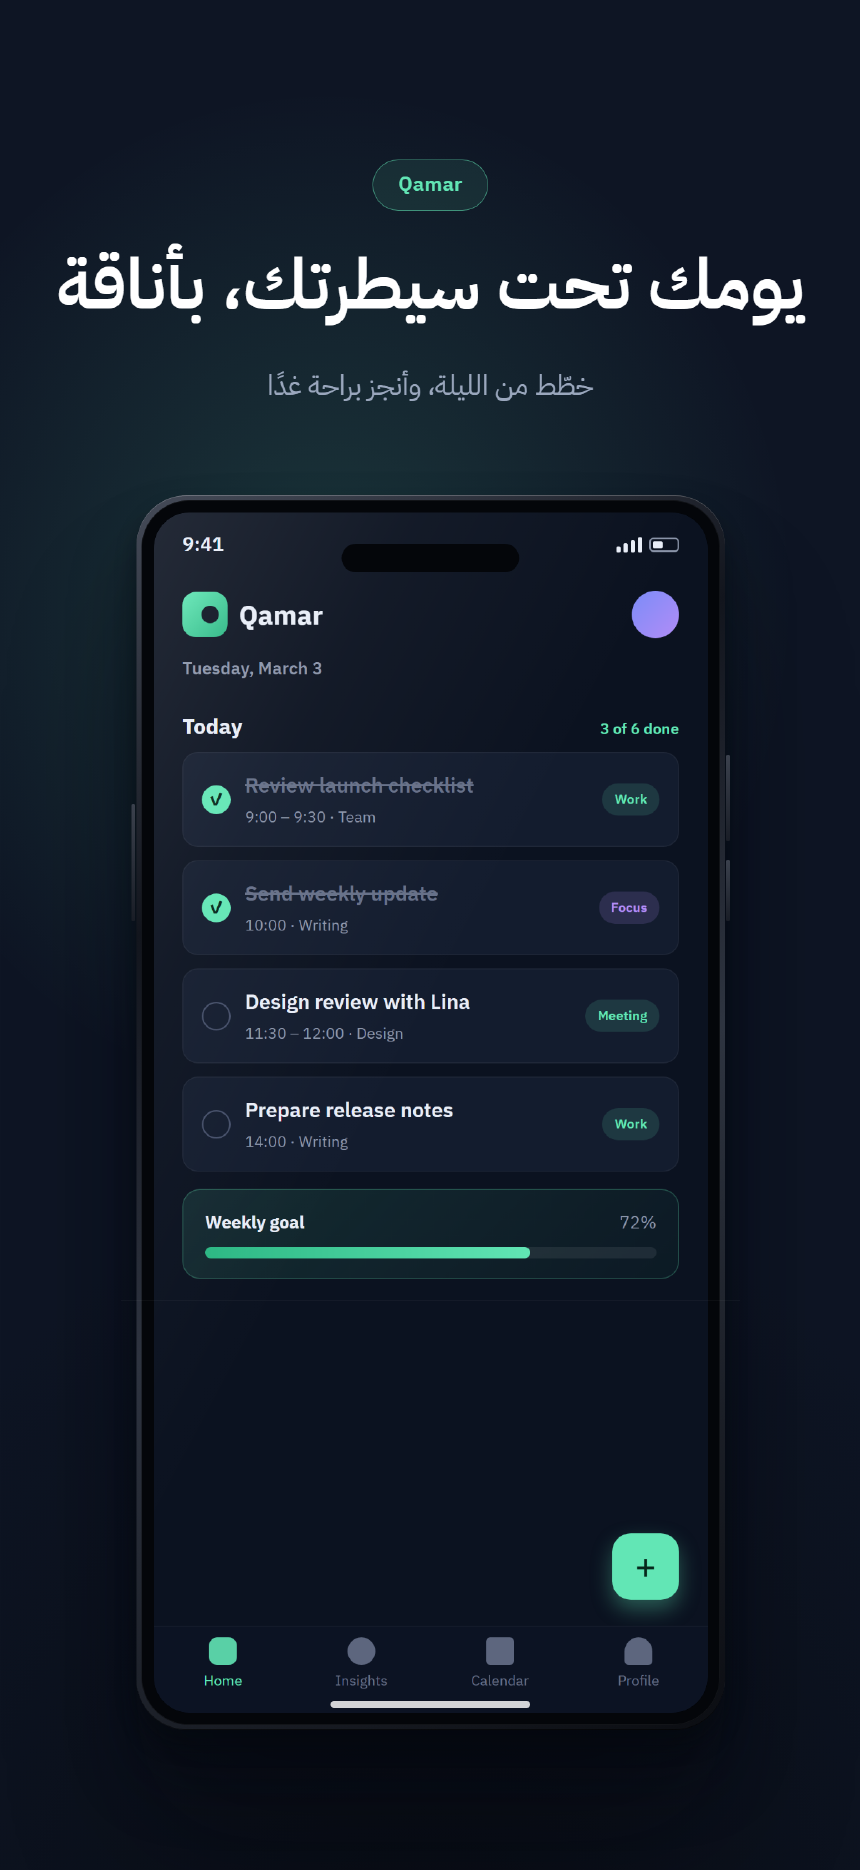
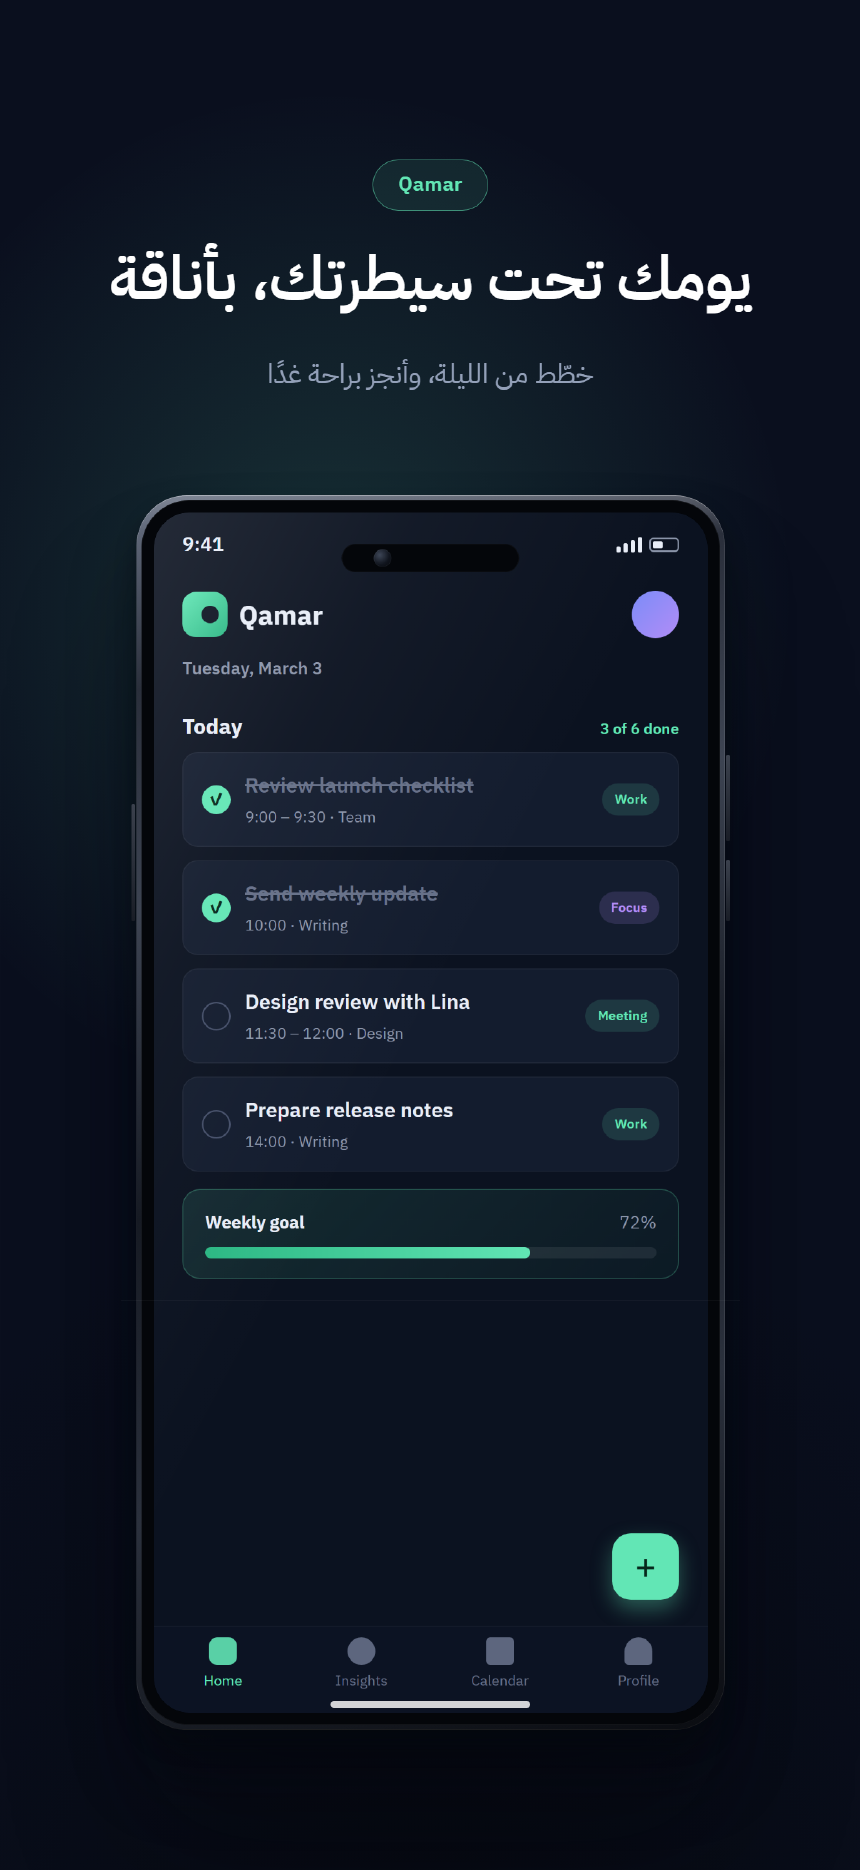
Fix cinematic variant B: headline was sitting on top of the app UI
Root cause: the doubled-px CSS fix resurrected a bottom-anchored
.cib-head declaration that had been dead since the layout was written —
so the Arabic headline dove to the bottom of ar/04-focus.png and sat
directly over the app's timer UI, with only a scrim darkening the app
beneath it. The 'non-intersecting zones' review had passed against the
accidental top placement the broken CSS produced.

Variant B is now genuinely zone-separated: headline owns the top band
(top 0.075h, side insets), the device starts below it (top 0.34h, bottom
bleed), the scrim over the app is GONE (a scrim is not a fix for text on
app UI). Both cinematic portrait variants get the library-wide
content-aware budgets (Arabic optical scale + deeper line budgets, long
copy one step down) — the starter's own copy now fits both variants.

Verified: pixel audit of the regenerated ar/04-focus.png — headline fully
in the top band, zero marketing text over app UI, shaping natural, PASS.
Flagship listing regenerated (10 frames) and downscaled to display size.
Suite: 13 files, 198 tests passed; visual baselines refreshed.

diff --git a/src/templates/cinematic.ts b/src/templates/cinematic.ts
@@ -146,14 +146,23 @@ function renderPortrait(ctx: TemplateContext) {
     maxHeight: h * (headlineBelow ? 0.72 : 0.66) * deviceScale,
   });
 
+  // Content-aware budgets (same rule as the rest of the library): the
+  // centered column lost its full-width measure when it gained side insets,
+  // so starter-length copy needs three lines of room.
+  const rtlA = ctx.dir === "rtl";
+  const longA = (ctx.texts.title ?? "").length >= 40;
   const head = headline({
     ctx,
     tokens,
     style: "cinematic",
     kicker: "chip",
     align: "center",
-    sizes: { kicker: w * 0.023, title: w * 0.082, subtitle: w * 0.032 },
-    lines: { title: 2, subtitle: 2 },
+    sizes: {
+      kicker: w * 0.023,
+      title: w * 0.082 * (rtlA ? 0.86 : 1) * (longA ? 0.85 : 1),
+      subtitle: w * 0.032,
+    },
+    lines: { title: rtlA ? (longA ? 4 : 3) : longA ? 3 : 3, subtitle: 2 },
     scale: headlineScale,
     subtitleMaxWidth: w * 0.72,
   });
@@ -245,17 +254,27 @@ function renderPortraitB(ctx: TemplateContext) {
     image: ctx.image,
     mode,
     maxWidth: w * 0.86 * deviceScale,
-    maxHeight: h * 0.92 * deviceScale,
+    maxHeight: h * 0.78 * deviceScale,
   });
 
+  // Content-aware budgets, same rule as every other template: Arabic gets a
+  // deeper line budget at a slightly smaller optical size, long copy takes
+  // one deliberate step down. The top band has room for four title lines
+  // before the device zone starts at 0.34h.
+  const rtl = ctx.dir === "rtl";
+  const longTitle = (ctx.texts.title ?? "").length >= 40;
   const head = headline({
     ctx,
     tokens,
     style: "cinematic",
     kicker: "chip",
     align: "center",
-    sizes: { kicker: w * 0.023, title: w * 0.084, subtitle: w * 0.032 },
-    lines: { title: 3, subtitle: 2 },
+    sizes: {
+      kicker: w * 0.023,
+      title: w * 0.084 * (rtl ? 0.86 : 1) * (longTitle ? 0.85 : 1),
+      subtitle: w * 0.032,
+    },
+    lines: { title: rtl ? (longTitle ? 5 : 4) : 4, subtitle: 2 },
     scale: headlineScale,
     subtitleMaxWidth: w * 0.74,
   });
@@ -267,11 +286,16 @@ function renderPortraitB(ctx: TemplateContext) {
     "    linear-gradient(" + tokens.bg + " 40%, " + darken(tokens.bg, 0.5) + " 130%);",
     "  " + headlineVars(tokens, "cinematic", h * 0.018, h * 0.02),
     "}",
-    ".cib-device { position: absolute; bottom: " +
-      px(-h * 0.3) + "; left: 50%; transform: translateX(-50%); z-index: 2; }",
-    ".cib-scrim { position: absolute; bottom: 0; left: 0; right: 0; height: " +
-      px(h * 0.4) + "; background: linear-gradient(to top, rgba(3,5,9,0.9) 0%, rgba(3,5,9,0.5) 55%, transparent 100%); z-index: 3; }",
-    ".cib-head { position: absolute; bottom: " +
+    // Non-intersecting zones: the headline owns the top band, the device
+    // starts below it. Marketing text never sits over the app UI — a scrim
+    // is not a fix for that, so there is none over the device.
+    ".cib-device { position: absolute; top: " +
+      px(h * 0.34) + "; left: 50%; transform: translateX(-50%); bottom: " +
+      px(-h * 0.12) + "; z-index: 2; }",
+    ".cib-floor { position: absolute; bottom: 0; left: 0; right: 0; height: " +
+      px(h * 0.16) + "; background: linear-gradient(to top, " +
+      tokens.blackShadow(0.55) + " 0%, transparent 100%); z-index: 1; }",
+    ".cib-head { position: absolute; top: " +
       px(h * 0.075) + "; left: " +
       px(w * 0.1) + "; right: " +
       px(w * 0.1) + "; display: flex; justify-content: center; z-index: 4; }",
@@ -279,9 +303,9 @@ function renderPortraitB(ctx: TemplateContext) {
 
   const html = [
     '<div class="shot shot-cinematic b">',
-    '  <div class="cib-device" data-bleed="true">' + device.html + "</div>",
-    '  <div class="cib-scrim"></div>',
+    '  <div class="cib-floor"></div>',
     '  <div class="cib-head">' + head + "</div>",
+    '  <div class="cib-device" data-bleed="true">' + device.html + "</div>",
     "</div>",
   ].join("\n");
 
